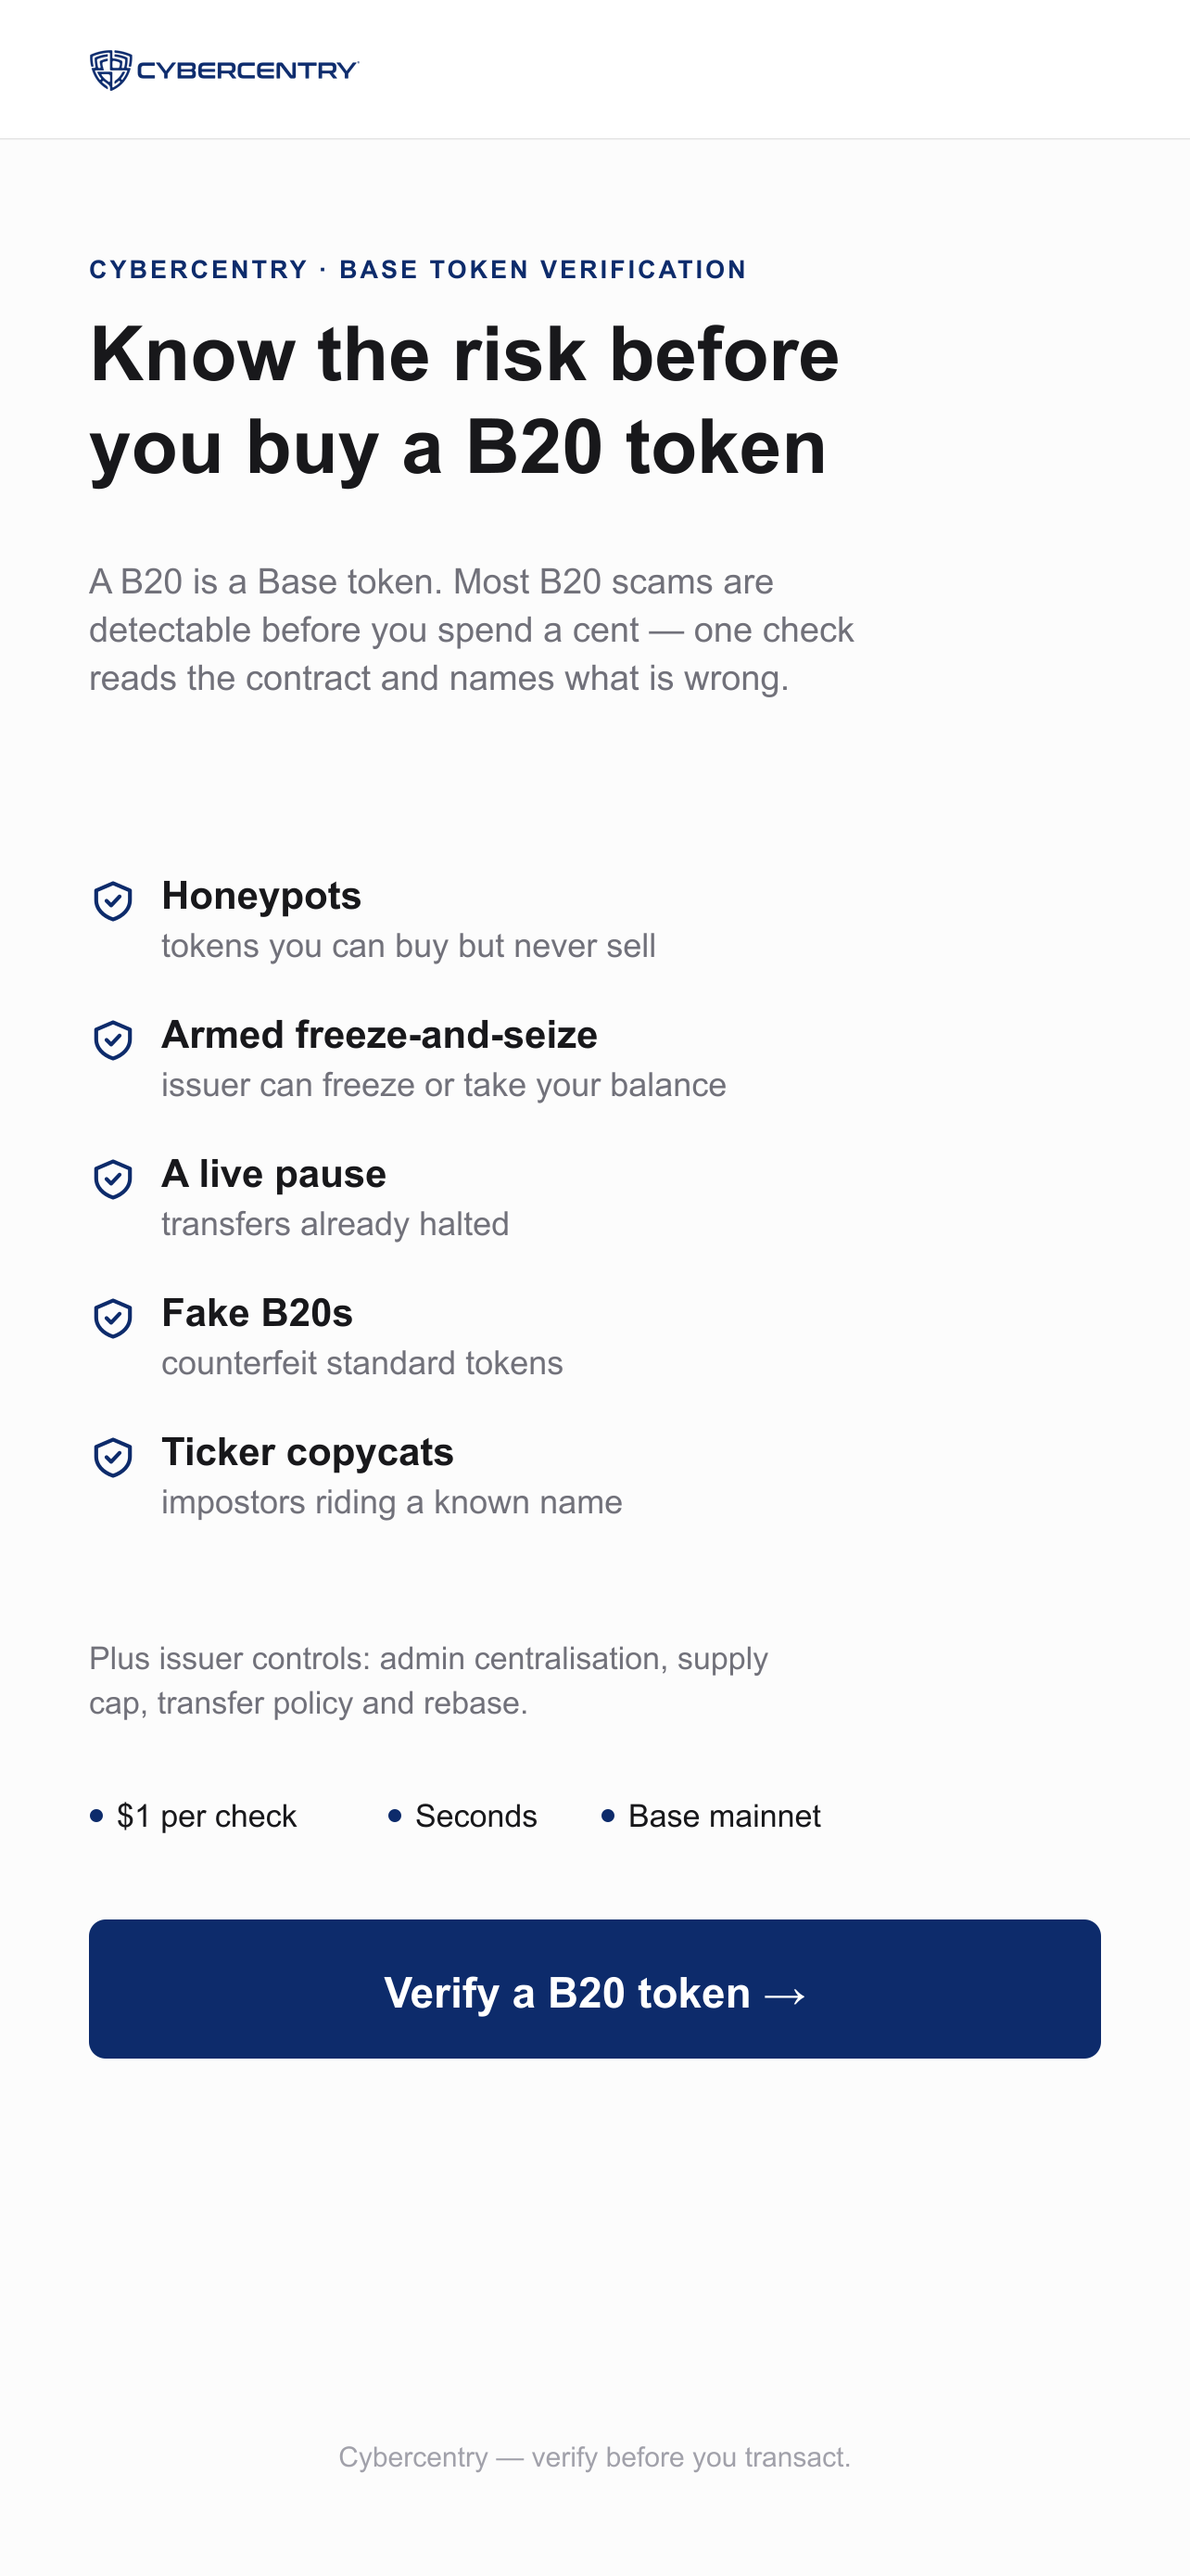
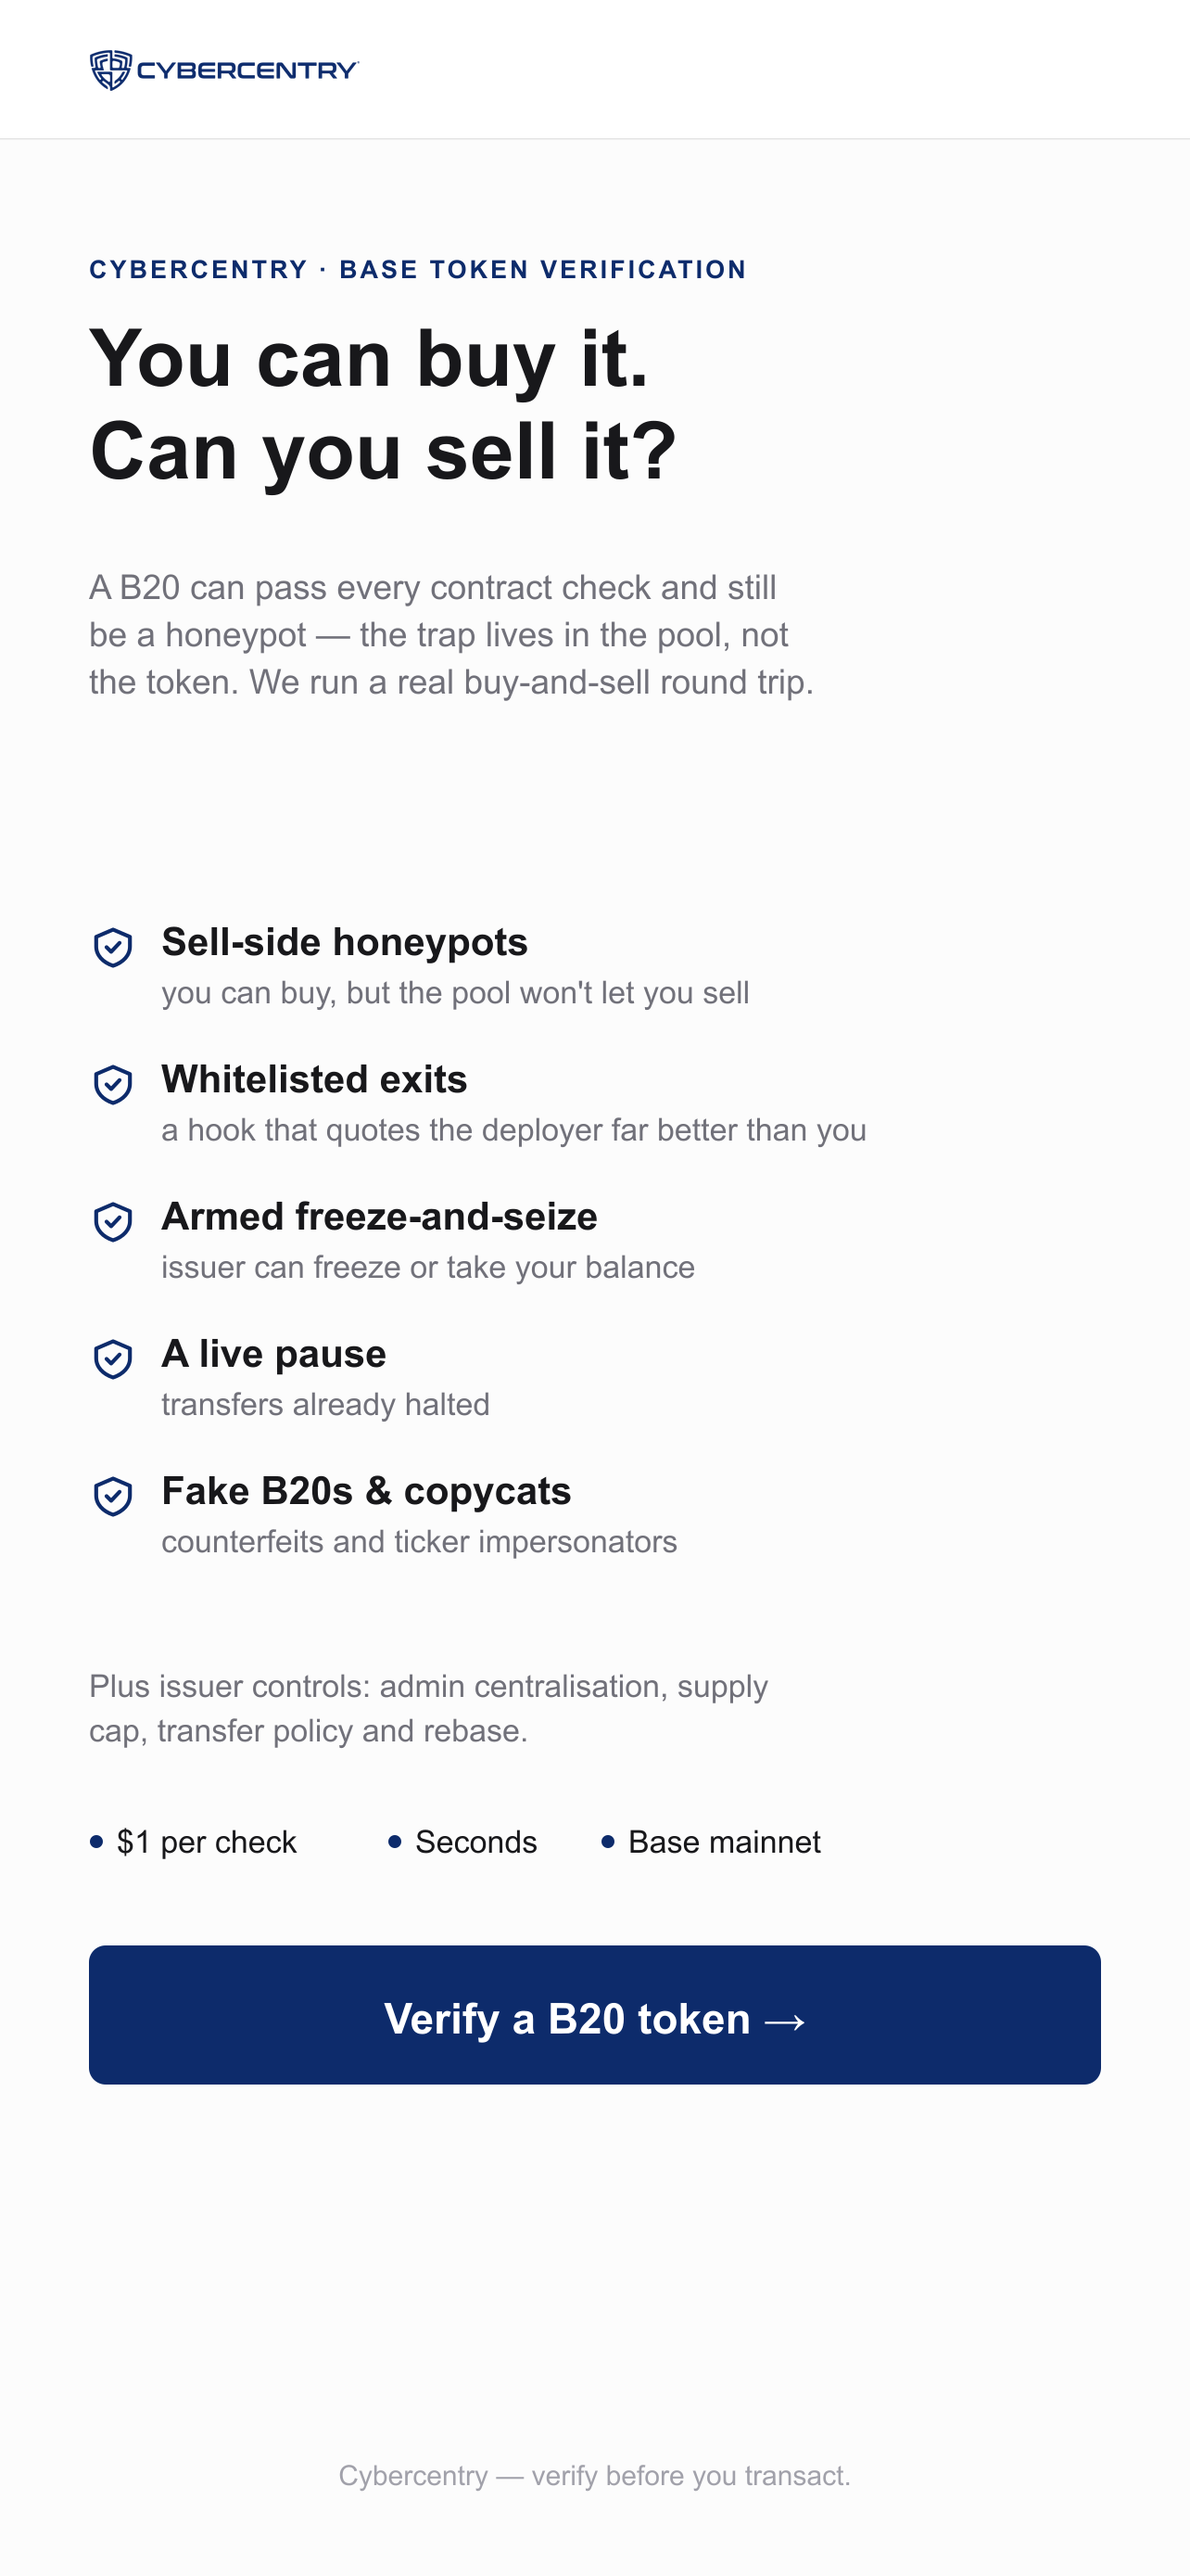
feat: spotlight sellability (pool-hook honeypot) across app + artwork
Reflects the proxy's venue enhancement (venue.py / VENUE-C-002): a B20 can
pass every contract check and still be a honeypot when the trap is in the
pool's swap hook, not the token. That "can you actually sell it" test is the
service's real differentiator, so the Mini App now leads with it.

- Landing hero: "You can buy it. Can you sell it?" with the pool-trap
  explanation; checks reordered to lead with Sell-side honeypots and
  Whitelisted exits (deployer quoted far better than a stranger), then
  freeze-and-seize, live pause, fakes & copycats. Issuer controls disclosed
  below.
- Manifest description leads with sellability (165/170); ogDescription
  "A clean B20 can still be a honeypot… can you actually sell — in Seconds."
- Base.dev screenshot and thumbnail regenerated to match (thumbnail subtitle
  "Can you actually sell it?").

diff --git a/app/page.tsx b/app/page.tsx
@@ -13,13 +13,14 @@ const WEB_REDIRECT_MS = 2600
 
 type MiniAppSdk = typeof import("@farcaster/miniapp-sdk")["sdk"]
 
-// What the Base Token Verification service checks — risk first.
+// What the Base Token Verification service checks — sellability first, because
+// it's the trap a clean contract hides.
 const CHECKS: { title: string; desc: string }[] = [
-  { title: "Honeypots", desc: "tokens you can buy but never sell" },
+  { title: "Sell-side honeypots", desc: "you can buy, but the pool won't let you sell" },
+  { title: "Whitelisted exits", desc: "a hook that quotes the deployer far better than a stranger" },
   { title: "Armed freeze-and-seize", desc: "issuer can freeze or take your balance" },
   { title: "A live pause", desc: "transfers already halted" },
-  { title: "Fake B20s", desc: "counterfeit standard tokens" },
-  { title: "Ticker-impersonation copycats", desc: "impostors riding a known name" },
+  { title: "Fake B20s & copycats", desc: "counterfeits and ticker impersonators" },
 ]
 
 function withTimeout<T>(promise: Promise<T>, fallback: T): Promise<T> {
@@ -119,11 +120,12 @@ export default function Home() {
         <div className={styles.card}>
           <span className={styles.eyebrow}>Cybercentry · Base Token Verification</span>
 
-          <h1 className={styles.title}>Know the risk before you buy a B20 token</h1>
+          <h1 className={styles.title}>You can buy it. Can you sell it?</h1>
 
           <p className={styles.lede}>
-            A B20 is a Base token. Most B20 scams are detectable <strong>before</strong> you spend a cent — one check
-            reads the contract and names what is wrong, so you don&rsquo;t find out after buying.
+            A B20 (a Base token) can pass every contract check and still be a honeypot — the trap lives in the{" "}
+            <strong>pool</strong>, not the token. Cybercentry runs a real buy-and-sell round trip and names what stops
+            you getting out.
           </p>
 
           <ul className={styles.checks}>

diff --git a/minikit.config.ts b/minikit.config.ts
@@ -33,13 +33,13 @@ export const minikitConfig = {
     // schema's length limits and free of banned characters.
     subtitle: "Base Token Verification",
     description:
-      "Verify any B20 (Base) token before you buy. One check flags honeypots, freeze-and-seize, live pauses, fake B20s, and ticker copycats, plus issuer controls — in Seconds.",
+      "Can you actually sell it? Verify a B20 before you buy — pool-hook honeypots, whitelisted exits, freeze-and-seize, live pauses, fakes and issuer controls. In Seconds.",
     primaryCategory: "utility",
     heroImageUrl: `${ROOT_URL}/hero-1200x630.png`,
     tags: ["security"],
     tagline: "Verify a B20 before you buy it",
     ogTitle: "Cybercentry",
-    ogDescription: "Check a B20 token before you buy: honeypots, freeze-and-seize, fake B20s and copycats.",
+    ogDescription: "A clean B20 can still be a honeypot. Cybercentry tests whether you can actually sell — in Seconds.",
     ogImageUrl: `${ROOT_URL}/hero-1200x630.png`,
     castShareUrl: ROOT_URL,
   },
